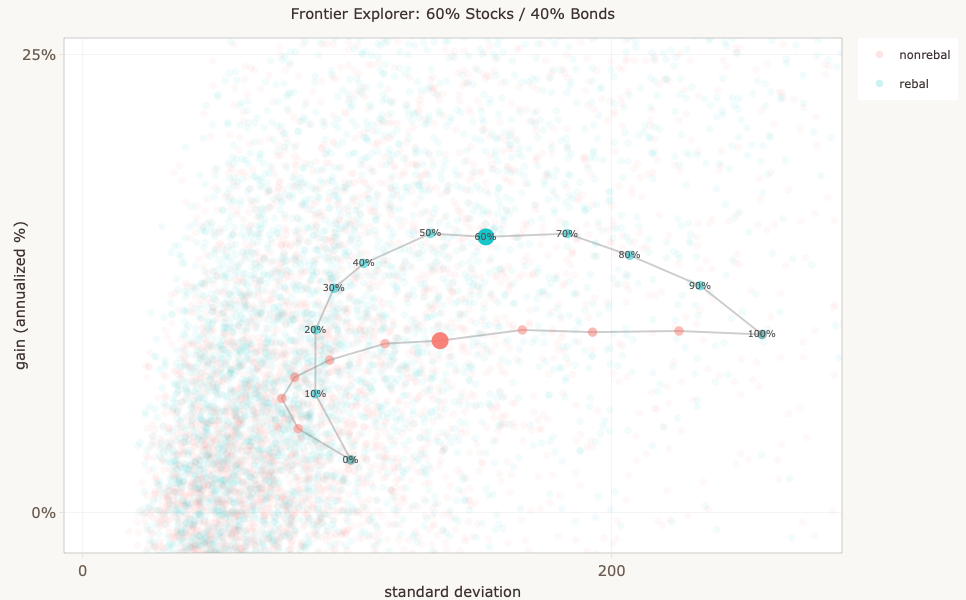
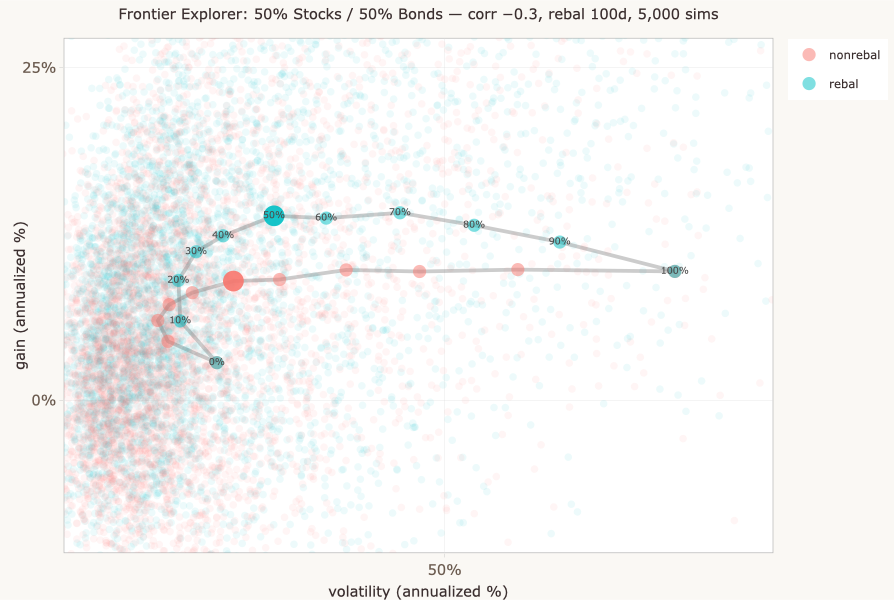
Added a 'range of outcomes' sub-tab

diff --git a/site/monte-carlo-about.html b/site/monte-carlo-about.html
@@ -278,6 +278,16 @@ a[style]{color:#1D9E75 !important}
        gain. The <strong>efficient frontier</strong> is the curve formed by the points
        that aren't dominated.</p>
 
+    <p>The efficient frontier was introduced by
+       <a href="https://en.wikipedia.org/wiki/Modern_portfolio_theory" class="tab-link">Harry Markowitz in 1952</a>,
+       and the body of work that grew from it &mdash; modern portfolio theory &mdash;
+       earned him a share of the 1990 Nobel Memorial Prize in Economic Sciences. The
+       framework is foundational: nearly every quantitative approach to portfolio
+       construction since rests on it in some form. This simulator engages with the
+       framework's most basic form (two assets, mean-variance, single period for the
+       analytic version) and asks what happens when you extend it into territory the
+       original formulation doesn't address.</p>
+
     <p>A note on optimization: in the general N-asset version of the efficient frontier,
        choosing the non-dominated portfolios is a real optimization problem &mdash; there
        are many possible weight vectors at each risk level, and you have to find the best
@@ -568,7 +578,9 @@ a[style]{color:#1D9E75 !important}
          sampling. At each time step, a new price is proposed from a multivariate normal
          centered on the current price. The proposal is accepted or rejected based on
          the ratio of target densities, producing correlated price paths that respect
-         the specified distribution parameters.</p>
+         the specified distribution parameters. See
+         <a href="monte-carlo-methodology.html" style="color:#1D9E75;">How It Works</a>
+         for a detailed walkthrough with an interactive visualization of the sampler.</p>
     </div>
 
     <div class="tech-subsection">
